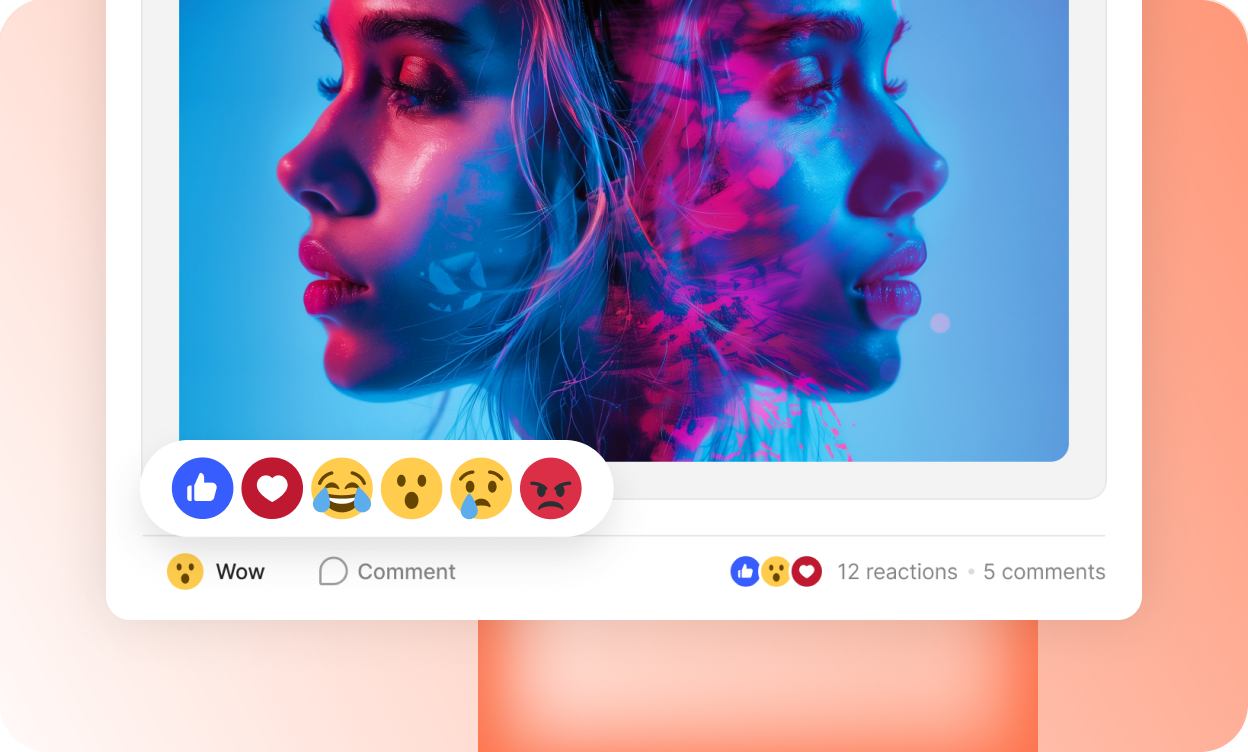
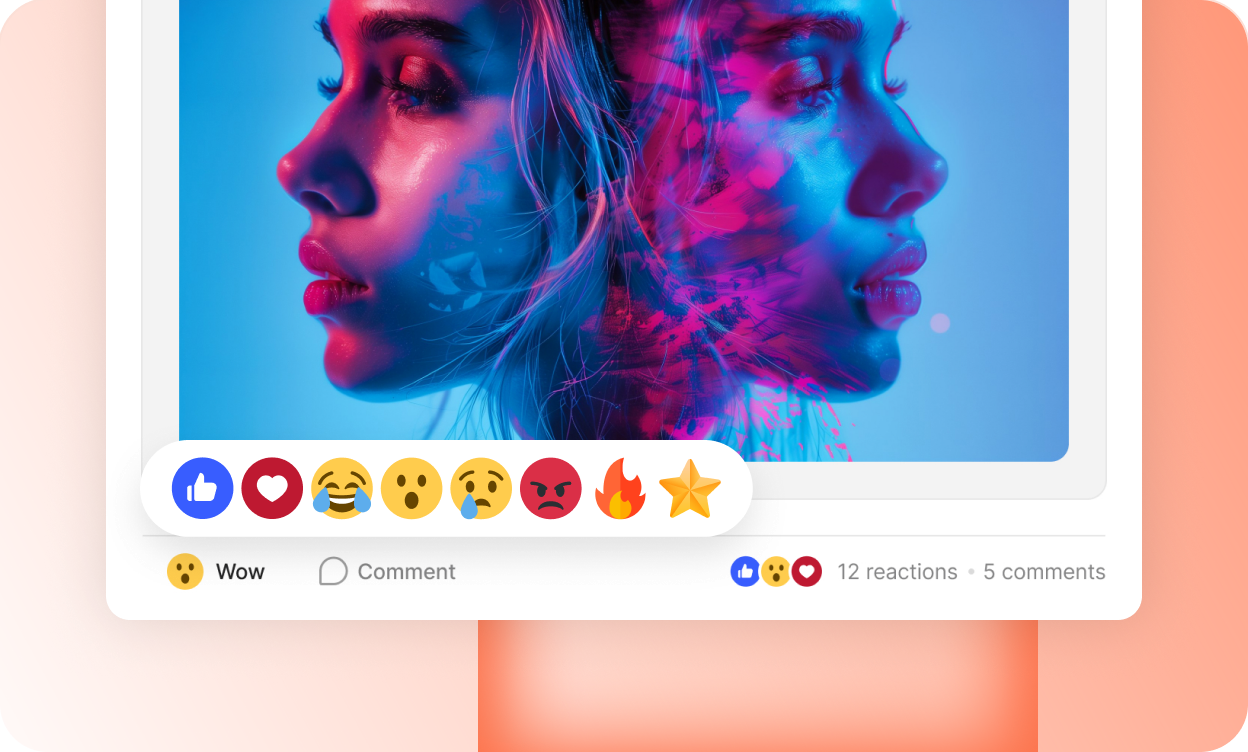
Add the two new reactions to the hero bubble and the section panel
Fire and star join the reaction set in both places. The hero's
reactBubble goes 4 icons -> 6 (frame 167.33 -> 236.8 wide) and the
Like & Reactions panel goes 6 -> 8, so both artworks are re-exported at
their existing scales (3x hero, 2x panel) and the hero float's width
follows the frame.

Verified in both builds: the hero bubble measures 236.80px at left 1257,
which lands it at y=469 in frame coordinates exactly as the design has
it, and the section panel renders all eight.

Changed region(s): [[0.4688, 0.5811, 0.5938, 0.7035]]

diff --git a/website/css/style.css b/website/css/style.css
@@ -275,7 +275,7 @@ button { font: inherit; color: inherit; background: none; border: 0; cursor: poi
 .float--notification { left: 1190px;    top: 237px;  width: 410px; }    /* box 1190,311 */
 .float--message      { left: 61px;      top: 362px;  width: 504px; }    /* box 61,436 */
 .float--update       { left: 713px;     top: 400px;  width: 360px; }    /* box 733,486 */
-.float--reactions    { left: 1257px;    top: 395px;  width: 167.33px; } /* box 1257,469 */
+.float--reactions    { left: 1257px;    top: 395px;  width: 236.8px; }  /* box 1257,469 — 6 reactions */
 
 @media (prefers-reduced-motion: no-preference) {
   .float--composer     { animation: bob 7.5s ease-in-out infinite; }

diff --git a/wordpress/bb-features/assets/css/features.css b/wordpress/bb-features/assets/css/features.css
@@ -248,7 +248,7 @@
 .bbf-float--notification { left: 1190px;   top: 237px;  width: 410px; }
 .bbf-float--message      { left: 61px;     top: 362px;  width: 504px; }
 .bbf-float--update       { left: 713px;    top: 400px;  width: 360px; }
-.bbf-float--reactions    { left: 1257px;   top: 395px;  width: 167.33px; }
+.bbf-float--reactions    { left: 1257px;   top: 395px;  width: 236.8px; }  /* 6 reactions */
 
 @media (prefers-reduced-motion: no-preference) {
   .is-scaled .bbf-float--composer     { animation: bbf-bob 7.5s ease-in-out infinite; }
